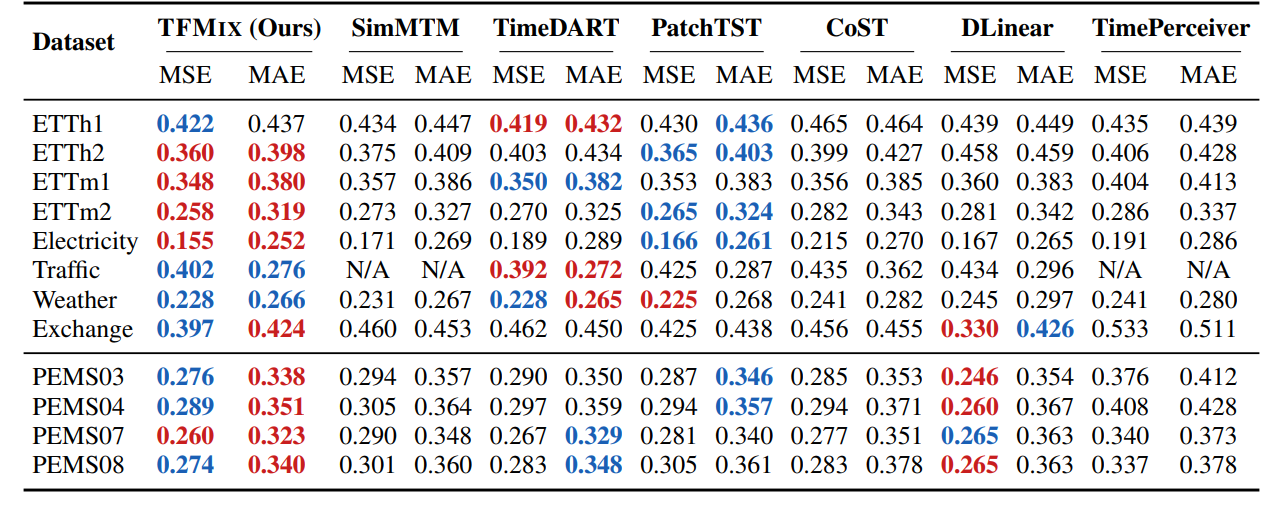
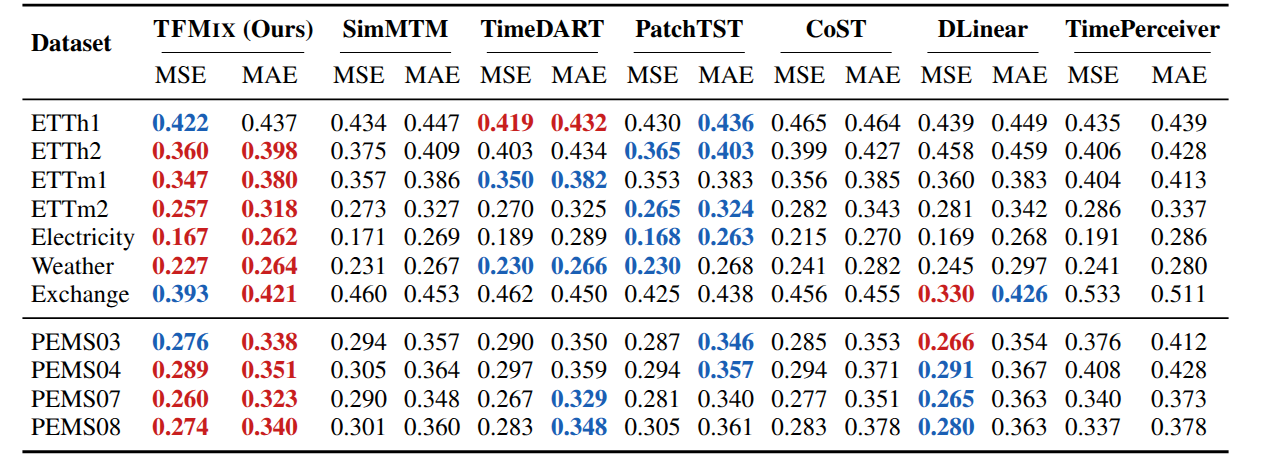
updated results

diff --git a/README.md b/README.md
@@ -1,9 +1,6 @@
 # TFMIX: Lightweight Dual-Domain Pre-Training for Time Series Forecasting
 
-[![License: MIT](https://img.shields.io/badge/License-MIT-blue.svg)](https://opensource.org/licenses/MIT)
-[![Conference](https://img.shields.io/badge/NeurIPS-2026-4b44ce.svg)](https://neurips.cc/)
-
-This is the official PyTorch implementation for the paper **TFMIX: Lightweight Dual-Domain Pre-Training for Time Series Forecasting with Adaptive Frequency Warping and Post-Pretraining Forgetting** (NeurIPS 2026).
+This repository contains anonymized code for reproducing the experiments in the submitted paper.
 
 ## Abstract
 
@@ -23,7 +20,7 @@ TFMIX combines three core innovations:
 
 ## Main Results
 
-Across twelve public forecasting benchmarks, TFMIX matches or surpasses strong self-supervised (SimMTM, TimeDART) and supervised (PatchTST, DLinear) baselines, attaining the lowest MSE and MAE on six datasets (ETTh2, ETTm1, ETTm2, Electricity, PEMS07, and Exchange).
+Across eleven public forecasting benchmarks, TFMIX matches or surpasses strong self-supervised (SimMTM, TimeDART) and supervised (PatchTST, DLinear) baselines, attaining the lowest MSE and MAE on six datasets (ETTh2, ETTm1, ETTm2, Electricity, PEMS07, and Exchange).
 
 ![Main Results](assets/results.png)
 
@@ -43,10 +40,10 @@ pip install -r requirements.txt
 
 ### Data Preparation
 
-We evaluate on 12 standard benchmarks spanning energy, weather, financial, and traffic domains:
+We evaluate on 11 standard benchmarks spanning energy, weather, financial, and traffic domains:
 
 - ETT datasets: ETTh1, ETTh2, ETTm1, ETTm2
-- Electricity, Traffic, Weather, Exchange
+- Electricity, Weather, Exchange
 - PEMS traffic datasets: PEMS03, PEMS04, PEMS07, PEMS08
 
 Place the downloaded datasets into the `./dataset/` directory.
@@ -60,8 +57,9 @@ All experimental scripts can be found in the `./scripts/` directory. We use a ch
 To pre-train TFMIX on the ETTh1 dataset using the default hyperparameters:
 
 ```bash
-python run_pretrain.py \
-  --dataset ETTh1 \
+python run.py \
+  --task_name pretrain \
+  --data ETTh1 \
   --seq_len 336 \
   --d_model 128 \
   --patch_len 16 \
@@ -77,8 +75,9 @@ python run_pretrain.py \
 To fine-tune the pre-trained model for long-horizon forecasting, for example $H=96$:
 
 ```bash
-python run_finetune.py \
-  --dataset ETTh1 \
+python run.py \
+  --task_name finetune \
+  --data ETTh1 \
   --seq_len 336 \
   --pred_len 96 \
   --d_model 128 \
@@ -103,7 +102,3 @@ If you find this repository useful for your research, please consider citing our
   year={2026}
 }
 ```
-
-## Acknowledgements
-
-We build upon the excellent codebases of PatchTST, SimMTM, and TimeDART. We thank the authors for open-sourcing their work.